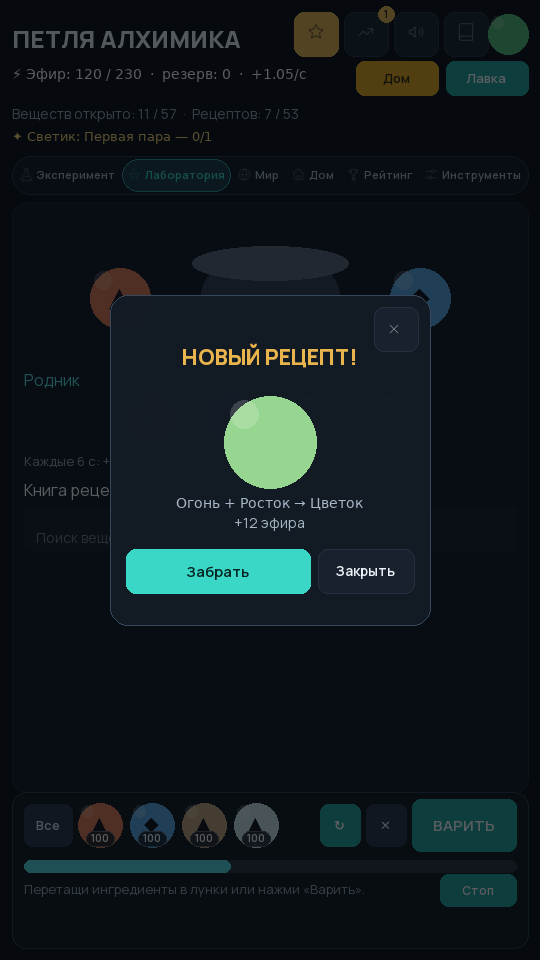
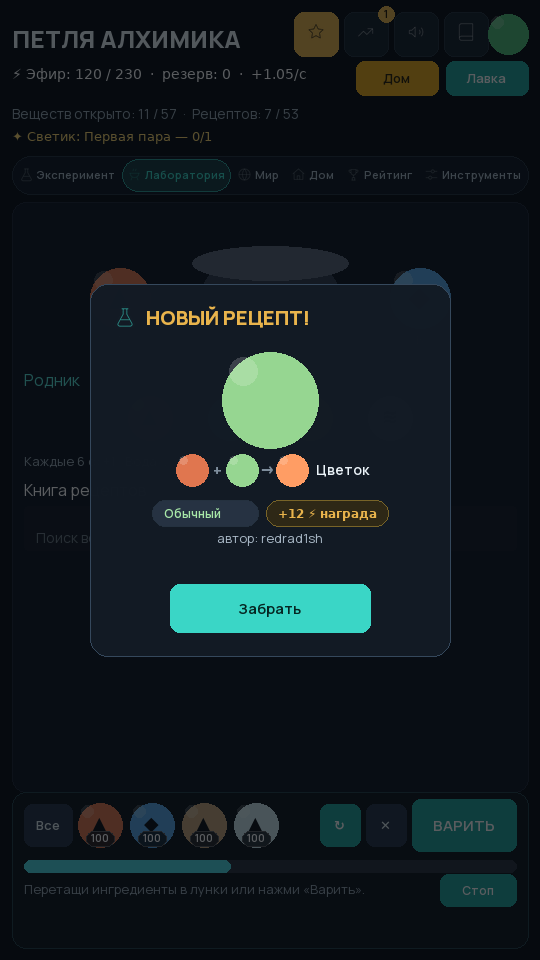
feat(ui): блок 3 «Попапы» по согласованному моку (одна кнопка, без крестика)
- карточка: поля 24 px со всех сторон, separation 12 — контролы выровнены
  по единой сетке (самопроверка: все константы в одном месте сборки)
- заголовок 20 px с иконкой колбы слева; орб 130 → 96
- рецептная строка мини-орбов A + B → C вместо первой строки «простыни»
- чипы редкости и награды вместо текста в простыне; остаток текста 13 px
- ОДНА кнопка «Забрать» 200×48 по центру; «Закрыть» убрана совсем
- закрытие: тап по фону (новый обработчик dim) или по карточке (как было)
- challenge-попап переведён на общий _present_popup (legendary-звук сохранён)
- мок/превью синхронизированы; кадры перерендерены

Changed region(s): [[0.1481, 0.2812, 0.7407, 0.6875], [0.7111, 0.2812, 0.8296, 0.3438], [0.1778, 0.5, 0.2074, 0.5312]]

diff --git a/alchemists-loop/tools/ui-preview/app.js b/alchemists-loop/tools/ui-preview/app.js
@@ -178,6 +178,28 @@ function screenHouse(mode) {
 }
 
 function screenPopup(mode) {
+  if (mode === "after") {
+    // согласовано: иконка+заголовок слева, орб 96, рецептная строка, чипы,
+    // ОДНА кнопка по центру, без крестика (закрытие — тап по фону/карточке)
+    return `<div class="screen">
+      ${header(mode)}${resrow()}${tabs(mode, 1)}
+      <div class="panel" style="flex:1"></div>
+      <div class="dim"><div class="popcard" style="width:360px;padding:24px">
+        <div style="display:flex;align-items:center;gap:10px">${ic("flask", 22, "#59d9d2")}
+          <div class="poptitle" style="font-size:20px;margin:0">НОВЫЙ РЕЦЕПТ!</div></div>
+        <div style="display:flex;justify-content:center;margin:14px 0">${orb("#96d691", 96)}</div>
+        <div style="display:flex;justify-content:center;align-items:center;gap:8px">
+          ${orb("#e0764f", 32)}<span class="muted">+</span>${orb("#96d691", 32)}<span class="muted">→</span>${orb("#ff9d64", 32)}
+          <b style="color:#eaf2f7">Цветок</b></div>
+        <div style="display:flex;justify-content:center;gap:8px;margin:12px 0">
+          <span class="chip">Обычный</span><span class="chip gold">+12 ⚡ награда</span></div>
+        <div class="popsub">автор: redrad1sh</div>
+        <div class="popactions" style="justify-content:center">
+          <button class="btn k1" style="width:200px;height:48px">Забрать</button>
+        </div>
+      </div></div>
+    </div>`;
+  }
   return `<div class="screen">
     ${header(mode)}${resrow()}${tabs(mode, 1)}
     <div class="panel" style="flex:1"></div>

diff --git a/alchemists-loop/tools/ui-preview/render_shots.py b/alchemists-loop/tools/ui-preview/render_shots.py
@@ -466,31 +466,47 @@ def screen_house(mode):
 def screen_popup(mode):
     img = screen_lab(mode)  # внутри mode станет "before", вкладки — tm
     blend_rect(img, [0, 0, W, H], (0, 0, 0, 158) if mode == "before" else (4, 8, 12, 168))
-    cw, ch = 320, 330
-    x0, y0 = (W - cw) // 2, (H - ch) // 2 - 20
-    C = AFTER if mode == "after" else BEFORE
-    rrect(img, [x0, y0, x0 + cw, y0 + ch], 16 if mode == "before" else 18,
-          fill=(16, 22, 31, 250) if mode == "before" else (18, 26, 36, 250),
-          outline=(42, 54, 72) if mode == "before" else C["line2"])
-    y = y0 + 18
-    if mode == "after":
-        button(img, [x0 + cw - 56, y0 + 12, 44, 44], "", 0, mode, icon_name="x")
-        y += 34
-    text(img, (W / 2, y + 10), "НОВЫЙ РЕЦЕПТ!", size=24 if mode == "before" else 21, weight=800,
-         color=(255, 230, 107) if mode == "before" else C["gold"], anchor="mm")
-    y += 40
-    orb(img, W / 2, y + 55, 46, (150, 214, 145), glyph="✿" if mode == "before" else None, mode=mode)
-    y += 116
-    text(img, (W / 2, y), "Огонь + Росток → Цветок", size=14, color=C["ink2"], anchor="mm")
-    y += 20
-    text(img, (W / 2, y), "+12 эфира", size=14, color=C["ink2"], anchor="mm")
-    y += 26
     if mode == "before":
+        cw, ch = 320, 330
+        x0, y0 = (W - cw) // 2, (H - ch) // 2 - 20
+        rrect(img, [x0, y0, x0 + cw, y0 + ch], 16, fill=(16, 22, 31, 250), outline=(42, 54, 72))
+        y = y0 + 28
+        text(img, (W / 2, y), "НОВЫЙ РЕЦЕПТ!", size=24, weight=800, color=(255, 230, 107), anchor="mm")
+        y += 40
+        orb(img, W / 2, y + 55, 46, (150, 214, 145), glyph="✿", mode=mode)
+        y += 116
+        text(img, (W / 2, y), "Огонь + Росток → Цветок", size=14, color=BEFORE["ink2"], anchor="mm")
+        y += 20
+        text(img, (W / 2, y), "+12 эфира", size=14, color=BEFORE["ink2"], anchor="mm")
+        y += 26
         button(img, [x0 + 16, y, (cw - 40) / 2, 44], "Забрать", 2, mode, size=14)
         button(img, [x0 + 24 + (cw - 40) / 2, y, (cw - 40) / 2, 44], "Закрыть", 0, mode, size=14)
-    else:
-        button(img, [x0 + 16, y, cw - 32 - 104, 44], "Забрать", 1, mode, size=15)
-        button(img, [x0 + cw - 16 - 96, y, 96, 44], "Закрыть", 0, mode, size=14)
+        return img
+    # ПОСЛЕ (согласовано): иконка+заголовок слева, орб 96, рецептная строка,
+    # чипы, ОДНА кнопка по центру, без крестика.
+    cw, ch = 360, 372
+    x0, y0 = (W - cw) // 2, (H - ch) // 2 - 10
+    C = AFTER
+    rrect(img, [x0, y0, x0 + cw, y0 + ch], 18, fill=(18, 26, 36, 250), outline=C["line2"])
+    icon(img, "flask", (x0 + 24, y0 + 22, 22, 22), C["accent"])
+    text(img, (x0 + 56, y0 + 33), "НОВЫЙ РЕЦЕПТ!", size=20, weight=800, color=C["gold"], anchor="lm")
+    orb(img, W / 2, y0 + 116, 48, (150, 214, 145), mode="after")
+    ry = y0 + 186
+    cx = W / 2
+    orb(img, cx - 78, ry, 16, (224, 118, 79), mode="after")
+    text(img, (cx - 52, ry), "+", size=15, weight=700, color=C["ink3"], anchor="mm")
+    orb(img, cx - 28, ry, 16, (150, 214, 145), mode="after")
+    text(img, (cx - 2, ry), "→", size=15, weight=700, color=C["ink3"], anchor="mm")
+    orb(img, cx + 22, ry, 16, (255, 157, 100), mode="after")
+    text(img, (cx + 46, ry), "Цветок", size=14, weight=600, color=C["ink1"], anchor="lm")
+    ry += 30
+    rrect(img, [cx - 118, ry, cx - 12, ry + 26], 13, fill=(38, 50, 66), outline=C["line"])
+    text(img, (cx - 106, ry + 13), "Обычный", size=12, weight=600, color=(168, 232, 168), anchor="lm")
+    rrect(img, [cx - 4, ry, cx + 118, ry + 26], 13, fill=(46, 40, 22), outline=(120, 100, 40))
+    text(img, (cx + 8, ry + 13), "+12 ⚡ награда", size=12, weight=600, color=C["gold"], anchor="lm")
+    ry += 38
+    text(img, (W / 2, ry), "автор: redrad1sh", size=13, color=C["ink2"], anchor="mm")
+    button(img, [W / 2 - 100, y0 + ch - 72, 200, 48], "Забрать", 1, "after", size=15)
     return img
 
 
@@ -775,7 +791,7 @@ def pp_before() -> Image.Image:
 def _pp_after_head(img, y0):
     icon(img, "flask", (94, y0 + 20, 22, 22), AFTER["accent"])
     text(img, (124, y0 + 31), "НОВЫЙ РЕЦЕПТ!", size=20, weight=800, color=AFTER["gold"], tracking=0.3)
-    button(img, [W - 70 - 44, y0 + 10, 44, 44], "", 0, "after", icon_name="x")
+    # без крестика: закрытие — тап по фону/карточке (правка пользователя)
 
 
 def _pp_after_body(img, y0):
@@ -811,7 +827,7 @@ def pp_after() -> Image.Image:
 
 def board_popups() -> Image.Image:
     variants = [("ДО · как сейчас: орб 130, простыня текста, две равные кнопки", pp_before()),
-                ("ПОСЛЕ · иконка+✕44, рецептная строка, чипы, ОДНА кнопка по центру", pp_after())]
+                ("ПОСЛЕ · иконка в заголовке, рецептная строка, чипы, ОДНА кнопка по центру", pp_after())]
     img = Image.new("RGBA", (W + 40, len(variants) * (PP_H + 64) + 90), (7, 11, 16, 255))
     text(img, (20, 26), "Блок 3 · Попапы открытий/целей", size=24, weight=800, color=(234, 242, 247))
     text(img, (20, 62), "Код игры не тронут: это мок-предложения для согласования.",
